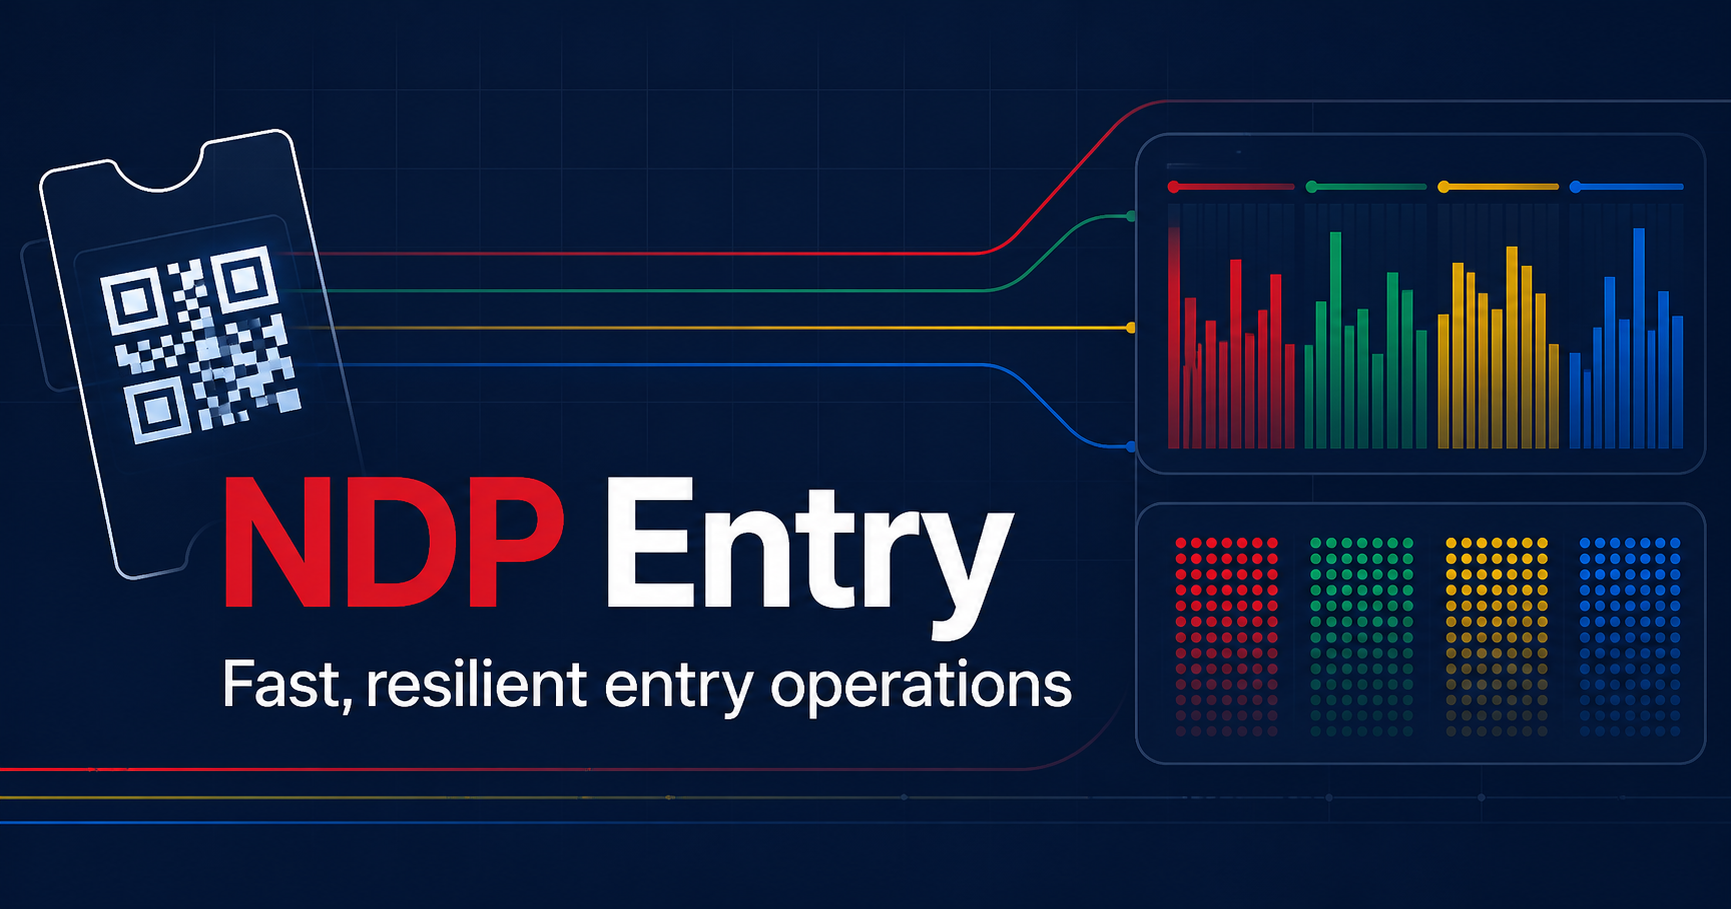
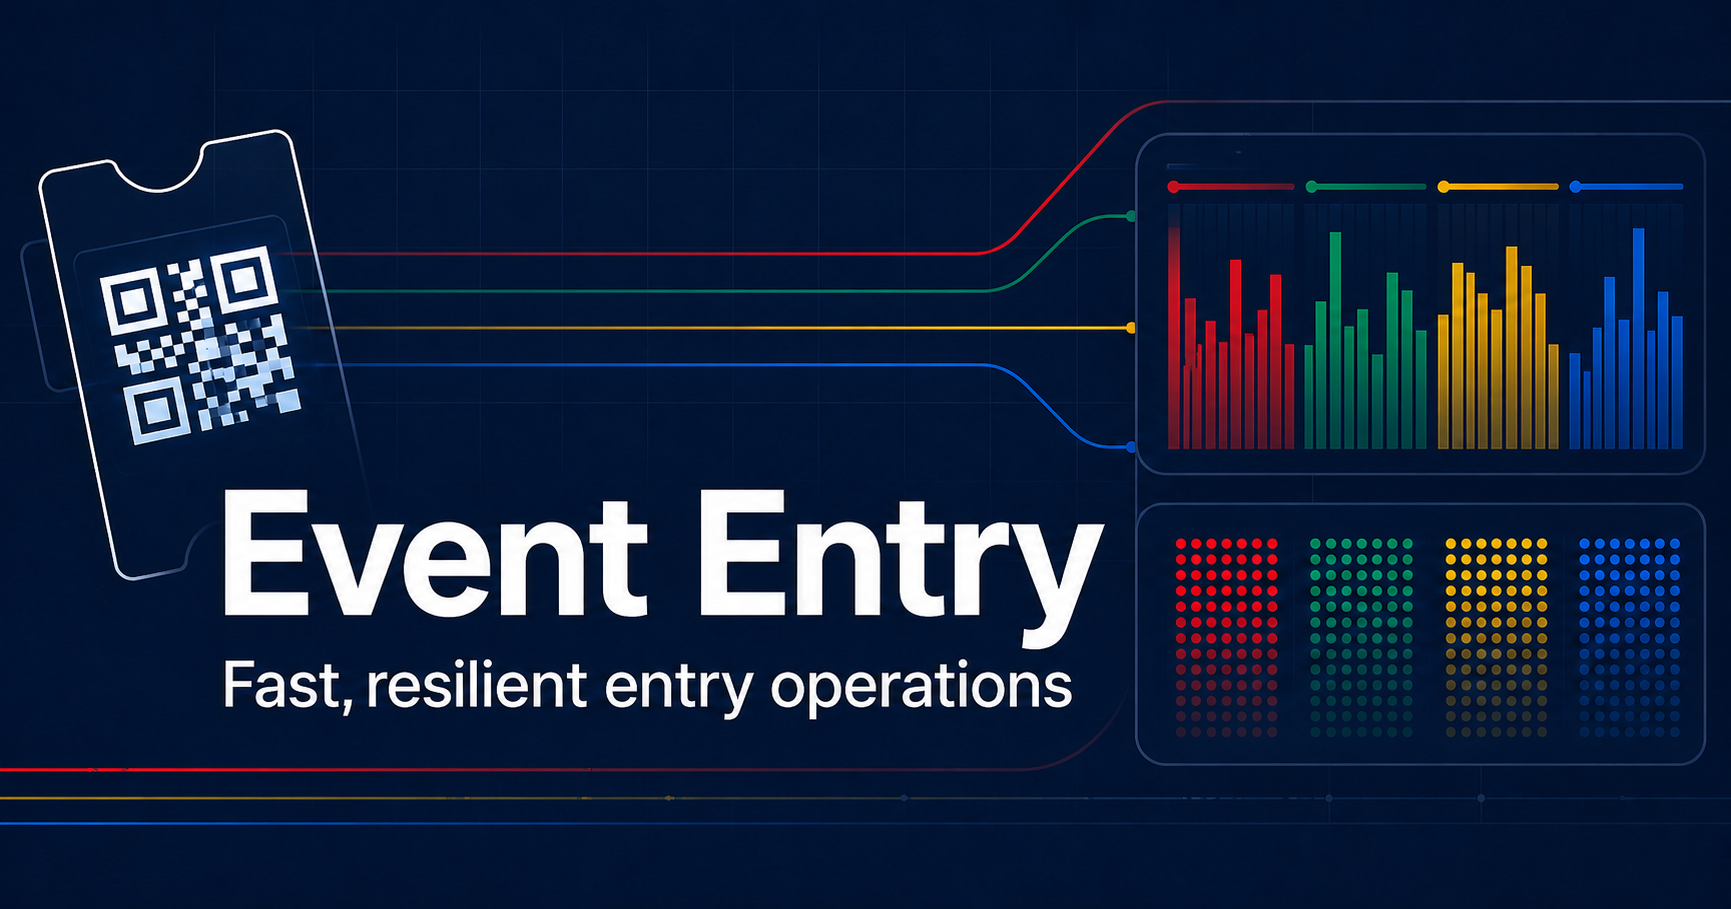
Rename product to Event Entry

diff --git a/app/ui/CitizenTicket.tsx b/app/ui/CitizenTicket.tsx
@@ -20,6 +20,6 @@ export function CitizenTicket({ token }: { token: string }) {
     }).catch((loadError) => setError(loadError instanceof Error ? loadError.message : "Ticket could not be opened"));
   }, [token]);
   if (error) return <main className="citizen-page"><div className="ticket-error"><strong>Ticket unavailable</strong><span>{error}</span></div></main>;
-  if (!ticket || !event) return <main className="citizen-page"><div className="ticket-loading">Opening your NDP ticket…</div></main>;
+  if (!ticket || !event) return <main className="citizen-page"><div className="ticket-loading">Opening your event ticket…</div></main>;
   return <main className="citizen-page"><header><div className="brand-mark"><span>SG</span><small>60+</small></div><div><strong>NDP 2027</strong><span>Official admission ticket</span></div><button aria-label="Change language">EN⌄</button></header><section className="mobile-ticket" style={{ "--zone": ticket.zoneColour } as React.CSSProperties}><div className="mobile-zone"><span>{ticket.zoneName}</span><strong>ZONE</strong></div><div className="mobile-event"><span>{event.name}</span><h1>{event.venue}</h1><div><span>Entry window</span><strong>{event.entryWindowStart}–{event.entryWindowEnd}</strong></div></div><div className="mobile-qr">{qr ? <img src={qr} alt="Admission QR code" /> : null}</div><div className="mobile-count"><strong>{ticket.remainingEntries}</strong><span>of {ticket.maxEntries} admissions remaining</span></div><p>Present this QR at any entry gate. If your assigned zone is elsewhere, staff will direct you after entry.</p><footer>{ticket.id} · v{ticket.version}</footer></section><div className="wallet-row"><a href={`/api/wallet/apple?ticket=${ticket.id}`}><b></b><span>Add to<br/><strong>Apple Wallet</strong></span></a><a href={`/api/wallet/google?ticket=${ticket.id}`}><b>G</b><span>Save to<br/><strong>Google Wallet</strong></span></a></div><section className="citizen-info"><h2>Before you arrive</h2><div><span>1</span><p><strong>Keep this ticket available</strong><br/>Add it to your phone wallet for access without network.</p></div><div><span>2</span><p><strong>Arrive between {event.entryWindowStart} and {event.entryWindowEnd}</strong><br/>You may enter through any gate.</p></div><div><span>3</span><p><strong>Entering separately?</strong><br/>This QR can be used again until all {ticket.maxEntries} admissions are consumed.</p></div></section></main>;
 }

diff --git a/app/layout.tsx b/app/layout.tsx
@@ -19,19 +19,19 @@ export async function generateMetadata(): Promise<Metadata> {
   const protocol = requestHeaders.get("x-forwarded-proto") ?? (host.startsWith("localhost") ? "http" : "https");
   const socialImage = `${protocol}://${host}/og.png`;
   return {
-    title: "NDP Entry",
-    description: "Fast, resilient event entry operations for NDP 2027.",
+    title: "Event Entry",
+    description: "Fast, resilient ticketing and gate operations for configurable events.",
     manifest: "/manifest.webmanifest",
     icons: { icon: "/favicon.svg", shortcut: "/favicon.svg" },
     openGraph: {
-      title: "NDP Entry",
+      title: "Event Entry",
       description: "Fast, resilient entry operations",
       type: "website",
-      images: [{ url: socialImage, width: 1733, height: 907, alt: "NDP Entry — Fast, resilient entry operations" }],
+      images: [{ url: socialImage, width: 1733, height: 907, alt: "Event Entry — Fast, resilient entry operations" }],
     },
     twitter: {
       card: "summary_large_image",
-      title: "NDP Entry",
+      title: "Event Entry",
       description: "Fast, resilient entry operations",
       images: [socialImage],
     },

diff --git a/app/ui/NdpApp.tsx b/app/ui/NdpApp.tsx
@@ -96,7 +96,7 @@ export function NdpApp() {
       <aside className={`sidebar ${sidebarOpen ? "sidebar-open" : ""}`}>
         <div className="brand-block">
           <div className="brand-mark"><span>SG</span><small>60+</small></div>
-          <div><strong>NDP Entry</strong><span>Operations control</span></div>
+          <div><strong>Event Entry</strong><span>Operations control</span></div>
         </div>
         <nav aria-label="Primary navigation">
           {navItems.map((item) => {
@@ -152,7 +152,7 @@ export function NdpApp() {
 }
 
 function LoadingScreen() {
-  return <div className="loading-screen"><div className="pulse-logo">SG</div><strong>Preparing NDP Entry</strong><span>Loading event operations…</span></div>;
+  return <div className="loading-screen"><div className="pulse-logo">SG</div><strong>Preparing Event Entry</strong><span>Loading event operations…</span></div>;
 }
 
 function ErrorScreen({ message, retry }: { message: string; retry: () => Promise<void> }) {

diff --git a/app/page.tsx b/app/page.tsx
@@ -2,8 +2,8 @@ import type { Metadata } from "next";
 import { NdpApp } from "./ui/NdpApp";
 
 export const metadata: Metadata = {
-  title: "NDP Entry — Operations",
-  description: "Fast, resilient event entry operations for NDP 2027.",
+  title: "Event Entry — Operations",
+  description: "Fast, resilient ticketing and gate operations for configurable events.",
 };
 
 export default function Home() {

diff --git a/public/sw.js b/public/sw.js
@@ -1,4 +1,4 @@
-const CACHE = "ndp-entry-v1";
+const CACHE = "event-entry-v2";
 const SHELL = ["/", "/manifest.webmanifest", "/favicon.svg"];
 
 self.addEventListener("install", (event) => {

diff --git a/README.md b/README.md
@@ -1,6 +1,7 @@
-# NDP Entry POC
+# Event Entry POC
 
-A browser-based e-ticketing and gate-operations proof of concept for NDP 2027.
+A reusable browser-based e-ticketing and gate-operations proof of concept. NDP
+2027 remains the included sample event.
 
 ## Included
 
